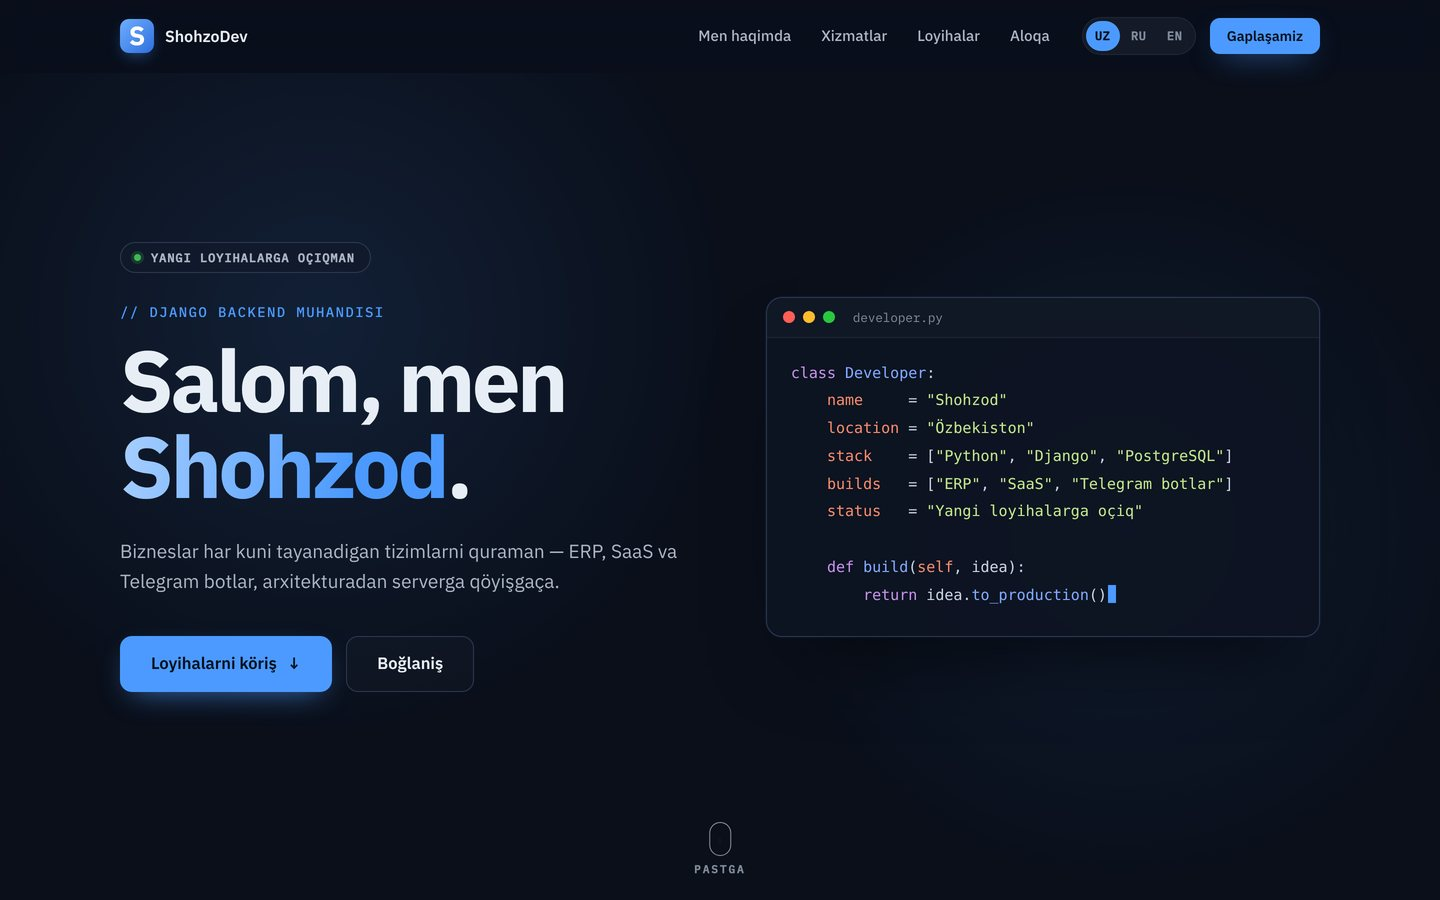
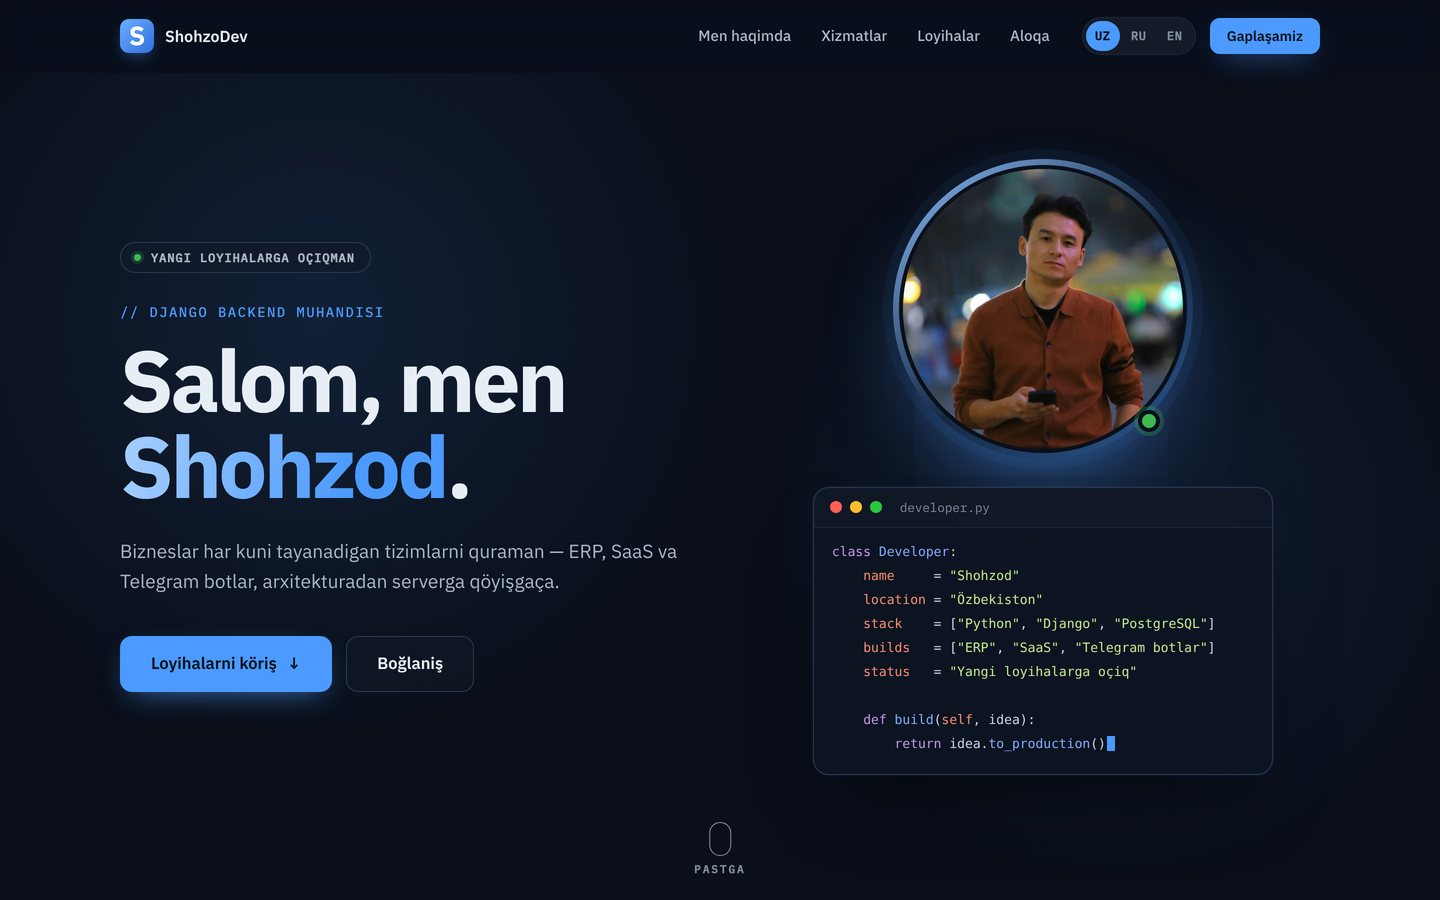
Round portrait in hero with code window below, facts in About

Changed region(s): [[0.5312, 0.1556, 0.8438, 0.7778], [0.5938, 0.7778, 0.7812, 0.84]]

diff --git a/static/portfolio/css/style.css b/static/portfolio/css/style.css
@@ -328,6 +328,41 @@ ul, ol { list-style: none; }
 .hero-sub { max-width: 31em; margin-top: 26px; font-size: 19px; line-height: 1.6; }
 .hero-actions { display: flex; flex-wrap: wrap; gap: 14px; margin-top: 40px; }
 
+/* right side: a round portrait with the code window under it */
+.hero-visual { display: grid; gap: 28px; justify-items: center; }
+.portrait {
+  position: relative;
+  width: min(100%, 300px);
+  aspect-ratio: 1;
+  padding: 6px;
+  border-radius: 50%;
+  background: linear-gradient(140deg, #8cc0ff, rgba(76, 154, 255, 0.15) 55%, rgba(76, 154, 255, 0.5));
+  box-shadow: 0 0 0 10px rgba(76, 154, 255, 0.06), 0 40px 90px -30px rgba(76, 154, 255, 0.6);
+}
+.portrait img {
+  width: 100%;
+  height: 100%;
+  border: 4px solid var(--bg);
+  border-radius: 50%;
+  object-fit: cover;
+  object-position: 50% 20%;
+}
+/* the "online" dot: same meaning as the status pill */
+.portrait::after {
+  content: "";
+  position: absolute;
+  right: 11%;
+  bottom: 9%;
+  width: 22px;
+  height: 22px;
+  border: 4px solid var(--bg);
+  border-radius: 50%;
+  background: var(--ok);
+  box-shadow: 0 0 0 4px rgba(63, 185, 80, 0.25);
+}
+.hero-visual .code-window { width: 100%; max-width: 460px; }
+.hero-visual .code { padding: 14px 18px 16px; font-size: 13px; line-height: 1.7; }
+
 /* the code window */
 .code-window {
   border: 1px solid var(--line-strong);
@@ -436,19 +471,15 @@ ul, ol { list-style: none; }
 /* about */
 .about-grid {
   display: grid;
-  grid-template-columns: 300px minmax(0, 1fr);
+  grid-template-columns: minmax(0, 1.4fr) minmax(0, 1fr);
   gap: 56px;
   align-items: start;
 }
-.about-photo img {
-  width: 100%;
-  aspect-ratio: 4 / 4.4;
-  border: 1px solid var(--line-strong);
-  border-radius: 20px;
-  object-fit: cover;
-  object-position: 50% 22%;
-  box-shadow: 0 30px 70px -35px rgba(76, 154, 255, 0.55);
-}
+.facts { border: 1px solid var(--line); border-radius: var(--radius); background: var(--panel); }
+.facts > div { display: grid; grid-template-columns: 130px minmax(0, 1fr); gap: 16px; padding: 16px 22px; }
+.facts > div + div { border-top: 1px solid var(--line); }
+.facts dt { color: var(--mute); font: 500 12px/1.6 var(--mono); letter-spacing: 0.06em; text-transform: uppercase; }
+.facts dd { margin: 0; color: var(--ink); font-size: 15.5px; font-weight: 500; }
 .about p { max-width: 40em; font-size: 18px; line-height: 1.75; }
 .about p + p { margin-top: 18px; }
 /* key phrases and product links: the eye can skim just these */
@@ -620,12 +651,14 @@ a.row:hover .row-arrow { transform: translate(3px, -3px); }
 
 @media (prefers-reduced-motion: no-preference) {
   .hero-copy > *,
+  .portrait,
   .code-window { animation: rise 0.7s var(--ease) both; }
+  .portrait { animation-delay: 0.1s; }
   .hero-copy > :nth-child(2) { animation-delay: 0.05s; }
   .hero-copy > :nth-child(3) { animation-delay: 0.1s; }
   .hero-copy > :nth-child(4) { animation-delay: 0.15s; }
   .hero-copy > :nth-child(5) { animation-delay: 0.2s; }
-  .code-window { animation-delay: 0.25s; }
+  .code-window { animation-delay: 0.35s; }
 }
 @keyframes rise {
   from { opacity: 0; transform: translateY(16px); }
@@ -644,9 +677,12 @@ a.row:hover .row-arrow { transform: translate(3px, -3px); }
   .header-end { margin-left: auto; }
   .menu { display: block; }
   .hero { min-height: 0; padding: 48px 0 104px; }
-  .hero-grid { grid-template-columns: minmax(0, 1fr); gap: 48px; }
-  .code-window { max-width: 620px; }
-  .about-grid { grid-template-columns: 220px minmax(0, 1fr); gap: 36px; }
+  .hero-grid { grid-template-columns: minmax(0, 1fr); gap: 40px; }
+  /* tablets and phones: round photo + code side by side, above the text */
+  .hero-visual { order: -1; grid-template-columns: auto minmax(0, 1fr); gap: 20px; align-items: center; justify-items: stretch; }
+  .portrait { width: 200px; }
+  .hero-visual .code-window { max-width: none; }
+  .about-grid { grid-template-columns: minmax(0, 1fr); gap: 32px; }
 }
 
 @media (max-width: 720px) {
@@ -657,14 +693,21 @@ a.row:hover .row-arrow { transform: translate(3px, -3px); }
   .hero-sub { font-size: 17px; }
   .hero-actions .btn { flex: 1 1 auto; }
   .btn-lg { padding: 15px 22px; font-size: 16px; }
-  .code { padding: 16px 14px 18px; font-size: 12px; line-height: 1.8; white-space: pre-wrap; }
-  /* a long line wraps under its value, not under the margin */
-  .code .ln { padding-left: 15ch; text-indent: -15ch; }
-  .code-bar { padding: 11px 14px; }
+  .code { white-space: pre-wrap; }
   .section { padding: 72px 0; }
   .section-head { margin-bottom: 32px; }
   .about-grid { grid-template-columns: minmax(0, 1fr); gap: 28px; }
-  .about-photo img { width: 180px; border-radius: 18px; }
+  .hero-visual { gap: 12px; }
+  .portrait { width: 116px; padding: 3px; box-shadow: 0 0 0 6px rgba(76, 154, 255, 0.06), 0 20px 40px -18px rgba(76, 154, 255, 0.6); }
+  .portrait img { border-width: 3px; }
+  .portrait::after { width: 16px; height: 16px; border-width: 3px; right: 6%; bottom: 6%; }
+  .code-bar { gap: 5px; padding: 8px 10px; }
+  .code-bar i { width: 8px; height: 8px; }
+  .code-bar span { margin-left: 4px; font-size: 10px; }
+  .hero-visual .code { padding: 10px 10px 12px; font-size: 10.5px; line-height: 1.6; }
+  .hero-visual .code .ln { padding-left: 4ch; text-indent: -4ch; }
+  .hero-visual .code .ln-extra { display: none; }   /* phones show the short version */
+  .facts > div { grid-template-columns: 112px minmax(0, 1fr); gap: 12px; padding: 14px 16px; }
   .about p { font-size: 16.5px; }
   .services { grid-template-columns: minmax(0, 1fr); gap: 12px; }
   .service { display: grid; grid-template-columns: 48px minmax(0, 1fr); column-gap: 16px; padding: 20px; }

diff --git a/templates/portfolio/index.html b/templates/portfolio/index.html
@@ -14,10 +14,19 @@
         </div>
       </div>
 
-      <figure class="code-window" aria-label="developer.py">
+      <div class="hero-visual">
+        <figure class="portrait">
+          <picture>
+            <source type="image/avif" srcset="{% static 'portfolio/img/profile-400.avif' %} 400w, {% static 'portfolio/img/profile-800.avif' %} 800w" sizes="(max-width: 720px) 240px, 420px">
+            <source type="image/webp" srcset="{% static 'portfolio/img/profile-400.webp' %} 400w, {% static 'portfolio/img/profile-800.webp' %} 800w" sizes="(max-width: 720px) 240px, 420px">
+            <img src="{% static 'portfolio/img/profile-800.jpg' %}" alt="{{ profile.full_name }}" width="800" height="864" fetchpriority="high">
+          </picture>
+        </figure>
+        <figure class="code-window" aria-label="developer.py">
         <div class="code-bar" aria-hidden="true"><i></i><i></i><i></i><span>developer.py</span></div>
-<pre class="code" id="code"><code><span class="ln"><span class="k">class</span> <span class="c">Developer</span>:</span><span class="ln">    <span class="a">name</span>     = <span class="s">"{{ profile.full_name }}"</span></span><span class="ln">    <span class="a">location</span> = <span class="s">"{{ strings.code_location }}"</span></span><span class="ln">    <span class="a">stack</span>    = [{% for t in code_stack %}<span class="s">"{{ t }}"</span>{% if not forloop.last %}, {% endif %}{% endfor %}]</span><span class="ln">    <span class="a">builds</span>   = [{% for t in code_builds %}<span class="s">"{{ t }}"</span>{% if not forloop.last %}, {% endif %}{% endfor %}]</span><span class="ln">    <span class="a">status</span>   = <span class="s">"{{ strings.code_status }}"</span></span><span class="ln"> </span><span class="ln">    <span class="k">def</span> <span class="f">build</span>(<span class="a">self</span>, idea):</span><span class="ln">        <span class="k">return</span> idea.<span class="f">to_production</span>()</span></code></pre>
-      </figure>
+<pre class="code" id="code"><code><span class="ln"><span class="k">class</span> <span class="c">Developer</span>:</span><span class="ln">    <span class="a">name</span>     = <span class="s">"{{ profile.full_name }}"</span></span><span class="ln ln-extra">    <span class="a">location</span> = <span class="s">"{{ strings.code_location }}"</span></span><span class="ln">    <span class="a">stack</span>    = [{% for t in code_stack %}<span class="s">"{{ t }}"</span>{% if not forloop.last %}, {% endif %}{% endfor %}]</span><span class="ln">    <span class="a">builds</span>   = [{% for t in code_builds %}<span class="s">"{{ t }}"</span>{% if not forloop.last %}, {% endif %}{% endfor %}]</span><span class="ln">    <span class="a">status</span>   = <span class="s">"{{ strings.code_status }}"</span></span><span class="ln ln-extra"> </span><span class="ln ln-extra">    <span class="k">def</span> <span class="f">build</span>(<span class="a">self</span>, idea):</span><span class="ln ln-extra">        <span class="k">return</span> idea.<span class="f">to_production</span>()</span></code></pre>
+        </figure>
+      </div>
     </div>
     <a class="scroll-hint" href="#about" aria-label="{{ strings.scroll_hint }}"><span class="mouse" aria-hidden="true"></span>{{ strings.scroll_hint }}</a>
   </section>
@@ -29,16 +38,17 @@
         <h2 id="about-title">{{ strings.about_title }}</h2>
       </header>
       <div class="about-grid">
-        <picture class="about-photo">
-          <source type="image/avif" srcset="{% static 'portfolio/img/profile-400.avif' %} 400w, {% static 'portfolio/img/profile-800.avif' %} 800w" sizes="(max-width: 900px) 200px, 300px">
-          <source type="image/webp" srcset="{% static 'portfolio/img/profile-400.webp' %} 400w, {% static 'portfolio/img/profile-800.webp' %} 800w" sizes="(max-width: 900px) 200px, 300px">
-          <img src="{% static 'portfolio/img/profile-800.jpg' %}" alt="{{ profile.full_name }}" width="800" height="864" loading="lazy" decoding="async">
-        </picture>
         <div class="about">
           <p>{{ strings.about_p1|highlight:projects }}</p>
           <p>{{ strings.about_p2|highlight:projects }}</p>
           <ul class="chips">{% for tool in stack %}<li>{{ tool }}</li>{% endfor %}</ul>
         </div>
+        <dl class="facts">
+          <div><dt>{{ strings.fact_focus_label }}</dt><dd>{{ strings.fact_focus_value }}</dd></div>
+          <div><dt>{{ strings.fact_location_label }}</dt><dd>{{ strings.fact_location_value }}</dd></div>
+          <div><dt>{{ strings.fact_format_label }}</dt><dd>{{ strings.fact_format_value }}</dd></div>
+          <div><dt>{{ strings.fact_langs_label }}</dt><dd>{{ strings.fact_langs_value }}</dd></div>
+        </dl>
       </div>
     </div>
   </section>

diff --git a/static/portfolio/js/site.js b/static/portfolio/js/site.js
@@ -14,7 +14,11 @@
     pre.style.minHeight = pre.offsetHeight + "px"; // no layout jump while typing
     var walker = document.createTreeWalker(code, NodeFilter.SHOW_TEXT);
     var nodes = [];
-    while (walker.nextNode()) nodes.push({ node: walker.currentNode, text: walker.currentNode.nodeValue });
+    while (walker.nextNode()) {
+      // lines hidden on small screens keep their text and are simply skipped
+      if (walker.currentNode.parentElement.getClientRects().length === 0) continue;
+      nodes.push({ node: walker.currentNode, text: walker.currentNode.nodeValue });
+    }
     nodes.forEach(function (n) { n.node.nodeValue = ""; });
     var caret = document.createElement("span");
     caret.className = "caret";

diff --git a/portfolio/content.py b/portfolio/content.py
@@ -38,6 +38,14 @@ STRINGS = {
         "about_title": "Tizimni özim quraman va özim javob beraman",
         "about_p1": "Men Shohzod — Özbekistonda işlaydigan *Django backend muhandisiman*. Biznes jarayonini tuşunişdan tortib arxitektura, kod, server va xavfsizlikkaça — loyihani *boşidan production'gaça* özim olib boraman.",
         "about_p2": "Hozir restoranlar uçun Zebest platformasining *asosçisiman* va quriliş kompaniyalari uçun BuildBest tizimini rivojlantiryapman. Işga tuşgandan keyin ham tizimni *kuzatib, qöllab-quvvatlab* boraman.",
+        "fact_focus_label": "Yönaliş",
+        "fact_focus_value": "Django backend",
+        "fact_location_label": "Joylaşuv",
+        "fact_location_value": "Özbekiston",
+        "fact_format_label": "Iş formati",
+        "fact_format_value": "Masofaviy, loyiha asosida",
+        "fact_langs_label": "Muloqot tili",
+        "fact_langs_value": "Özbekça, rusça",
         "services_title": "Nima qila olaman",
         "s1_t": "Biznes tizimlari",
         "s1_d": "ERP va CRM: hisob, xodimlar, ombor va moliya — bitta tizimda.",
@@ -84,6 +92,14 @@ STRINGS = {
         "about_title": "Сам строю систему и сам за неё отвечаю",
         "about_p1": "Я Шохзод — *Django backend-инженер* из Узбекистана. От понимания бизнес-процесса до архитектуры, кода, серверов и безопасности — веду проект сам, *от начала до продакшена*.",
         "about_p2": "Сейчас я *основатель* Zebest — платформы для ресторанов — и развиваю BuildBest, систему для строительных компаний. После запуска продолжаю *следить за системой и поддерживать её*.",
+        "fact_focus_label": "Направление",
+        "fact_focus_value": "Django backend",
+        "fact_location_label": "Локация",
+        "fact_location_value": "Узбекистан",
+        "fact_format_label": "Формат работы",
+        "fact_format_value": "Удалённо, по проектам",
+        "fact_langs_label": "Языки общения",
+        "fact_langs_value": "Узбекский, русский",
         "services_title": "Что я делаю",
         "s1_t": "Бизнес-системы",
         "s1_d": "ERP и CRM: учёт, сотрудники, склад и финансы — в одной системе.",
@@ -130,6 +146,14 @@ STRINGS = {
         "about_title": "I build the system and I answer for it",
         "about_p1": "I'm Shohzod, a *Django backend engineer* based in Uzbekistan. From understanding the business process to architecture, code, servers and security, I take a project *from scratch to production* myself.",
         "about_p2": "I'm the *founder* of Zebest, a platform for restaurants, and I'm building BuildBest, a system for construction companies. After launch I keep *monitoring and supporting* the system.",
+        "fact_focus_label": "Focus",
+        "fact_focus_value": "Django backend",
+        "fact_location_label": "Location",
+        "fact_location_value": "Uzbekistan",
+        "fact_format_label": "Work format",
+        "fact_format_value": "Remote, project-based",
+        "fact_langs_label": "Languages",
+        "fact_langs_value": "Uzbek, Russian",
         "services_title": "What I do",
         "s1_t": "Business systems",
         "s1_d": "ERP and CRM: accounting, staff, stock and finance in one system.",

diff --git a/portfolio/tests.py b/portfolio/tests.py
@@ -178,6 +178,9 @@ class IndexPageTests(TestCase):
                 self.assertIn(strings[f"s{n}_t"].replace("'", "&#x27;"), html)
             self.assertNotIn("*", html[html.index('<div class="about">'):html.index('<ul class="chips">')])
             self.assertIn('<a href="https://zebest.uz" target="_blank" rel="noopener">Zebest</a>', html)
+            hero = html[html.index('<section class="hero"'):html.index('id="about"')]
+            self.assertIn('class="portrait"', hero)  # the face is in the first screen
+            self.assertIn(strings["fact_langs_value"].replace("'", "&#x27;"), html)
             for tool in STACK:
                 self.assertIn(f"<li>{tool}</li>", html)
             self.assertNotIn("{#", html)  # no leaked template syntax
@@ -193,10 +196,12 @@ class IndexPageTests(TestCase):
         for lang in SUPPORTED_LANGUAGES:
             page = self.get(lang)
             block = page[page.index('<pre class="code" id="code"><code>'):page.index("</code></pre>")]
-            lines = re.findall(r'<span class="ln">(.*?)</span>(?=<span class="ln">|$)', block + "", re.S)
+            lines = re.findall(r'<span class="ln(?: ln-extra)?">(.*?)</span>(?=<span class="ln|$)', block, re.S)
+            self.assertEqual(len(lines), 9)
             text = "\n".join(html_lib.unescape(re.sub(r"<[^>]+>", "", ln)) for ln in lines)
             self.assertIn('name     = "Shohzod"', text)
             self.assertIn(STRINGS[lang]["code_status"], text)
+            self.assertIn("return idea.to_production()", text)
             ast.parse(text)  # raises SyntaxError if the snippet is broken
 
     def test_assets_carry_a_cache_busting_version(self):

diff --git a/portfolio/security.py b/portfolio/security.py
@@ -26,7 +26,7 @@ CONTENT_SECURITY_POLICY = "; ".join(
         "style-src 'self'",
         "img-src 'self' data:",
         "font-src 'self'",
-        "connect-src 'none'",
+        "connect-src 'self'",  # lets crawlers' audit tools fetch robots.txt from the page
         "form-action 'none'",
         "frame-ancestors 'none'",
         "base-uri 'self'",
